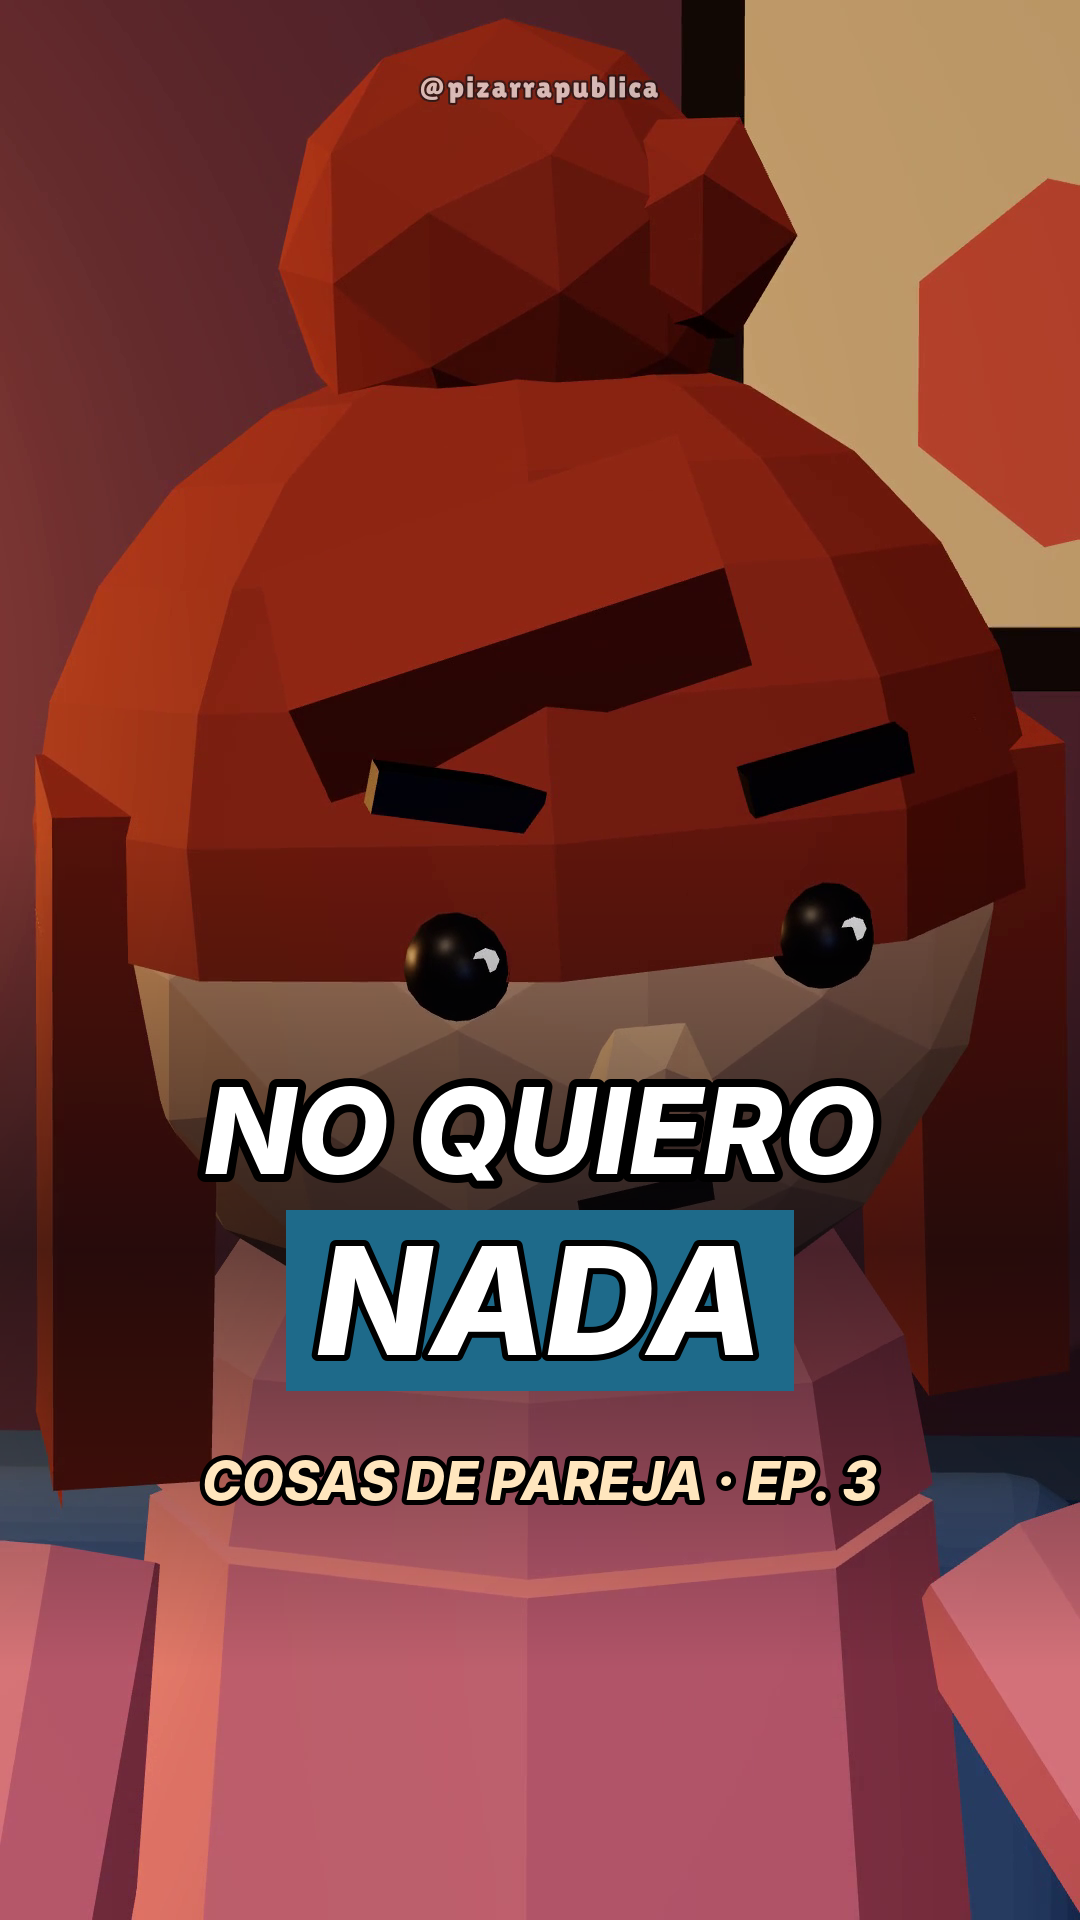
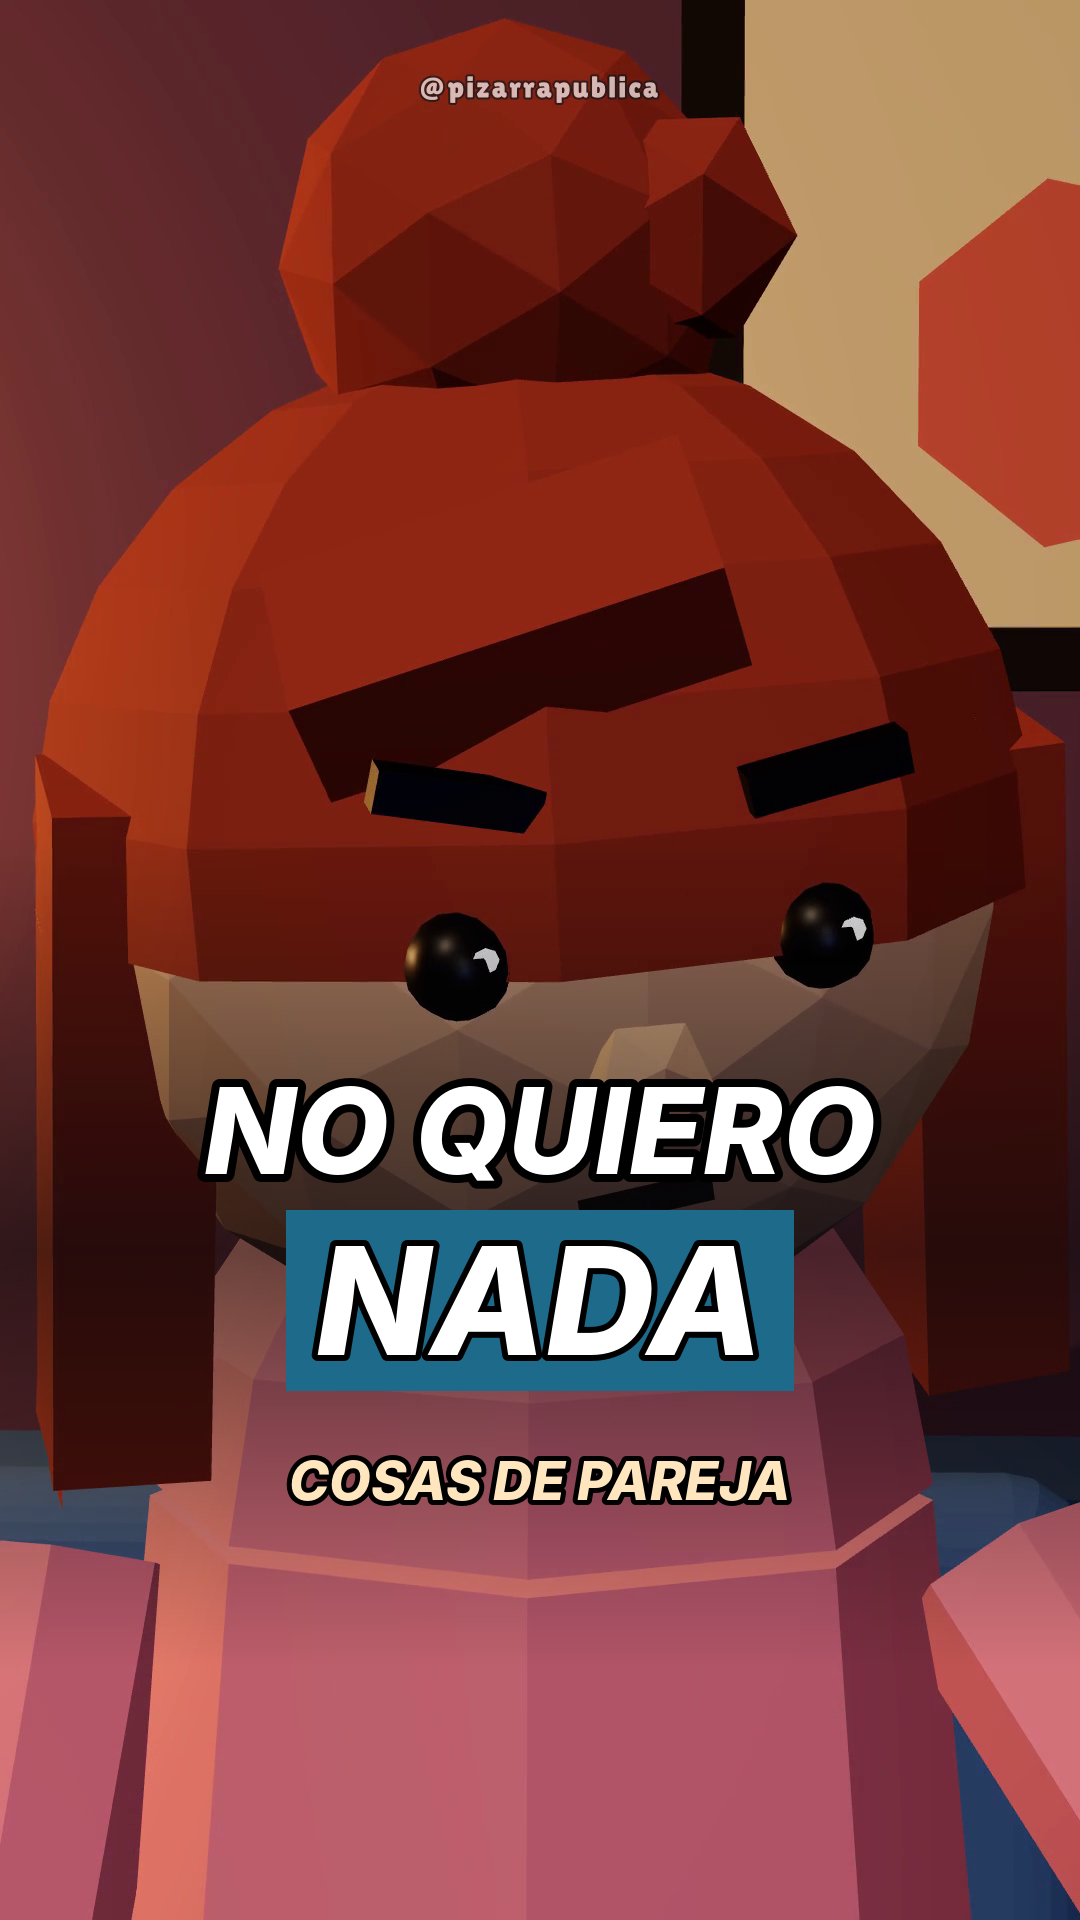
No quiero nada: portada sin número de episodio
Claude-Session: https://claude.ai/code/session_01CB9p5hpCW7wKZFJfQSwRZv

Changed region(s): [[0.1833, 0.75, 0.825, 0.7812]]

diff --git a/pizzaville/scripts/portada_pareja2.py b/pizzaville/scripts/portada_pareja2.py
@@ -17,5 +17,5 @@ f1 = fit(l1, 120); d.text((W / 2, 1130), l1, font=f1, fill='white', anchor='mm',
 f2 = fit(l2, 150); w = d.textlength(l2, font=f2)
 d.rectangle((W / 2 - w / 2 - 30, 1210, W / 2 + w / 2 + 30, 1390), fill=(30, 106, 138))
 d.text((W / 2, 1300), l2, font=f2, fill='white', anchor='mm', stroke_width=6, stroke_fill='black')
-fe = ImageFont.truetype(F, 54); d.text((W / 2, 1480), f'COSAS DE PAREJA · {ep}', font=fe, fill=(255, 230, 190), anchor='mm', stroke_width=5, stroke_fill='black')
+fe = ImageFont.truetype(F, 54); d.text((W / 2, 1480), (f'COSAS DE PAREJA · {ep}' if ep else 'COSAS DE PAREJA'), font=fe, fill=(255, 230, 190), anchor='mm', stroke_width=5, stroke_fill='black')
 im.save(out)
